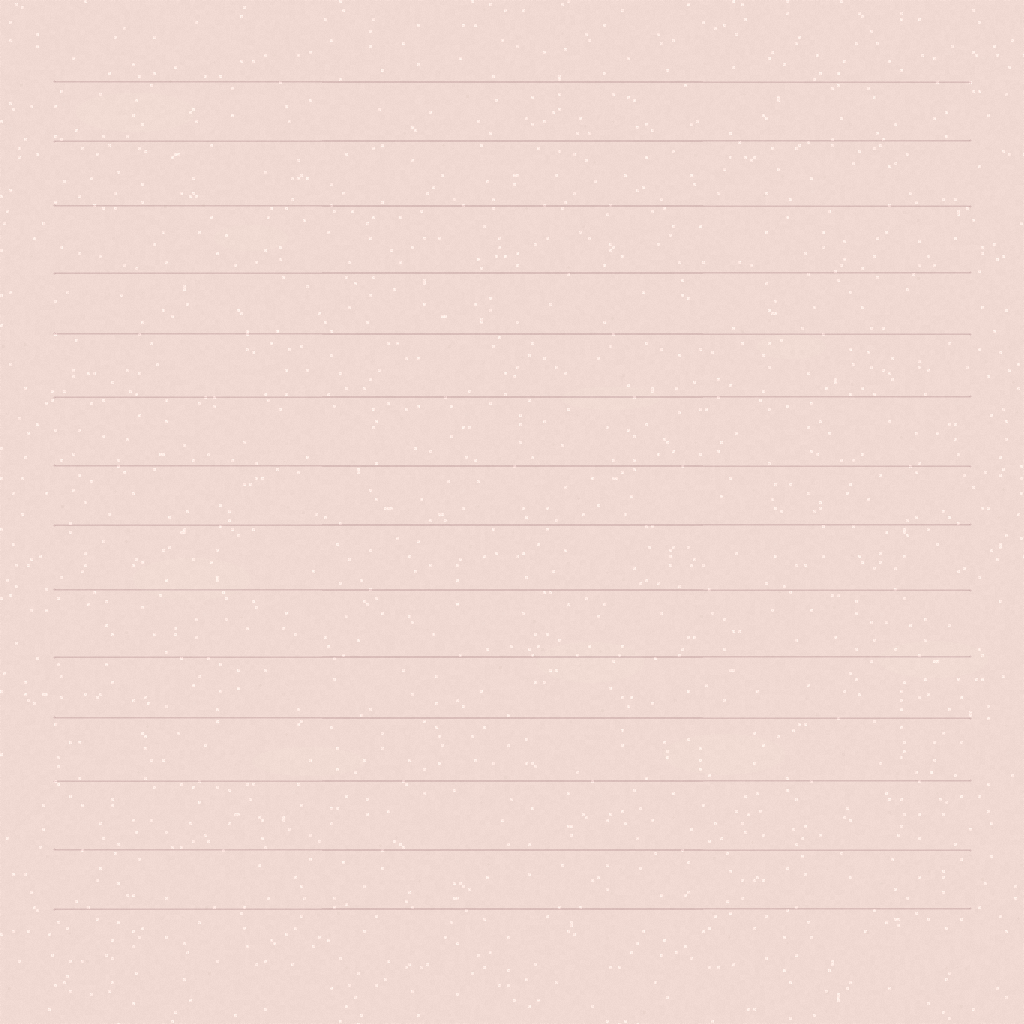
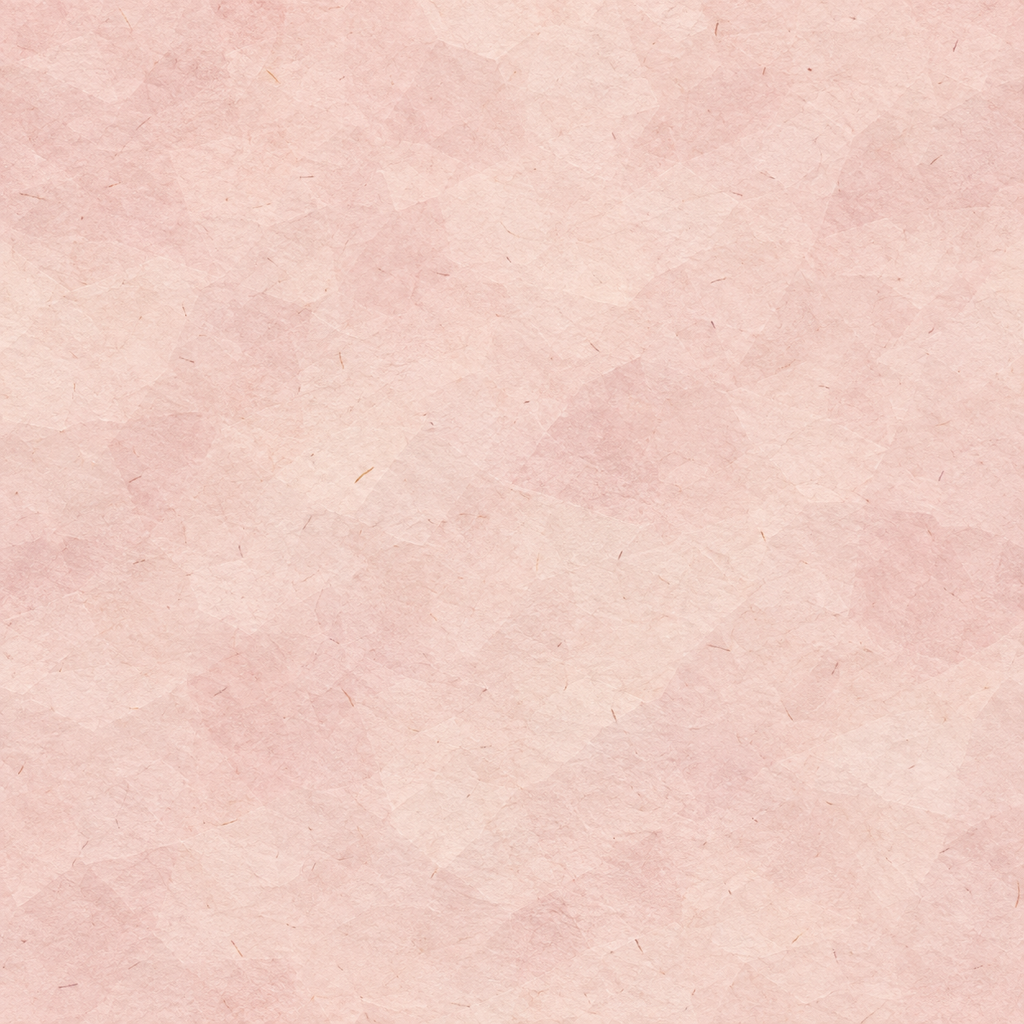
feat(assets): regenerate diary paper textures with updated designs and dimensions

diff --git a/assets/ASSET_REGISTER.md b/assets/ASSET_REGISTER.md
@@ -64,7 +64,7 @@ Review status: draft; human IP/design review required before release.
 | App icon and splash | `assets/icon.png`, `assets/favicon.png`, `assets/splash-icon.png`, `assets/splash-logo.png`, `assets/splash-placeholder.png` | Temporary neutral journal mark. Regenerate after final brand name and app identity are approved. |
 | Android adaptive icon | `assets/android-icon-background.png`, `assets/android-icon-foreground.png`, `assets/android-icon-monochrome.png` | Temporary neutral journal mark; no text or brand name. |
 | Journal cover backgrounds | `assets/journal-backgrounds/default-journal.png`, `assets/journal-backgrounds/meadow-day.png`, `assets/journal-backgrounds/meadow-sunset.png`, `assets/journal-backgrounds/meadow-night.png`, `assets/journal-backgrounds/mountain-sunrise.png`, `assets/journal-backgrounds/moonlit-lake.png`, `assets/journal-backgrounds/summer.png`, `assets/journal-backgrounds/winter.png` | Eight generic wide diary covers. All covers were regenerated 2026-09-09 with the built-in image tool using the soft low-poly journal direction at level 6, then resized to `1672x941` to match app metadata. `default-journal` is a generic indoor stationery desk scene. `meadow-day`, `meadow-sunset`, and `meadow-night` are a distinct free-user meadow time-of-day trio. `mountain-sunrise`, `moonlit-lake`, `summer`, and `winter` are scenery-first generic landscape covers. No third-party image inputs, text, logos, people, animals, characters, recognizable real locations, branded products, named artist/studio/franchise references, or watermarks. Discarded prior covers: spring, fall, cozy-reading-nook, school, office, rainy-window, greenhouse, cafe-morning. Draft; human IP/design review required before release. |
-| Diary paper backgrounds | `assets/diary-paper/*.png` | Six subtle project-authored body canvas paper textures generated without third-party inputs, plus the in-app blank option. |
+| Diary paper backgrounds | `assets/diary-paper/*.png` | Six subtle AI-generated body canvas paper textures, plus the in-app blank option. Regenerated 2026-09-09 with the built-in image tool using soft low-poly journal direction at level 6, then resized to `1024x1024`: vintage parchment, soft lined paper, pressed petal paper, taped note paper, rose memo paper, and blue notebook paper. No third-party image inputs, text, logos, people, characters, brand marks, or named artist/studio/franchise references. Intended display size: full diary body canvas behind readable entry text. Draft; human IP/design review required before release. |
 | Pattern backgrounds | `assets/patterns/pattern-spring.png`, `assets/patterns/pattern-summer.png`, `assets/patterns/pattern-autumn.png`, `assets/patterns/pattern-winter.png`, `assets/patterns/pattern-rain.png`, `assets/patterns/motifs/*.png` | Five transparent wallpaper tiles regenerated 2026-09-09 from AI-generated source motifs, then composed with `scripts/generate-owned-assets.js patterns` using controlled sparse spacing. Uses soft low-poly journal direction at level 6. Seasonal tiles use one repeated motif type only: blossom, sun, leaf, or snowflake. Rain intentionally uses two motif types: cloud and raindrop. Motif scale was reduced to 75% of the previous generated pattern size. Each theme has a distinct sparse position map. No third-party image inputs, text, logos, people, characters, brand marks, or named artist/studio/franchise references. Generated dimensions: source motifs are `512x512`; final tiles are `768x768`. Intended display size: subtle full-screen decorative app background. Draft; human IP/design review required before release. See `assets/patterns/README.md`. |
 | Memory reaction icons | `assets/reactions/*.png` | Seven transparent PNG reaction icons: cherish, treasure, smile, heavy, tender, stormy, wonder. Regenerated 2026-09-09 with the built-in image tool using simplified single-item prompts and soft low-poly journal art direction at level 6: heart, gem, smile circle, raincloud, cupped hand, lightning bolt, and four-point star. No third-party image inputs, named artist/studio/franchise references, text, logos, people, animals, platform emoji likeness, or branded marks. Generated dimensions: `256x256`. Intended display size: 24-42 px in reaction buttons and trays. Draft; human IP/design review required before release. |
 | Sticker pack: Cat | `assets/stickers/cat/*.png` | Three transparent PNG stickers: sleepy, curious, cozy. Regenerated 2026-09-09 with the built-in image tool using soft low-poly journal direction at level 6. Source sheet retained under `assets/stickers/source-sheets/cat.png`. |
